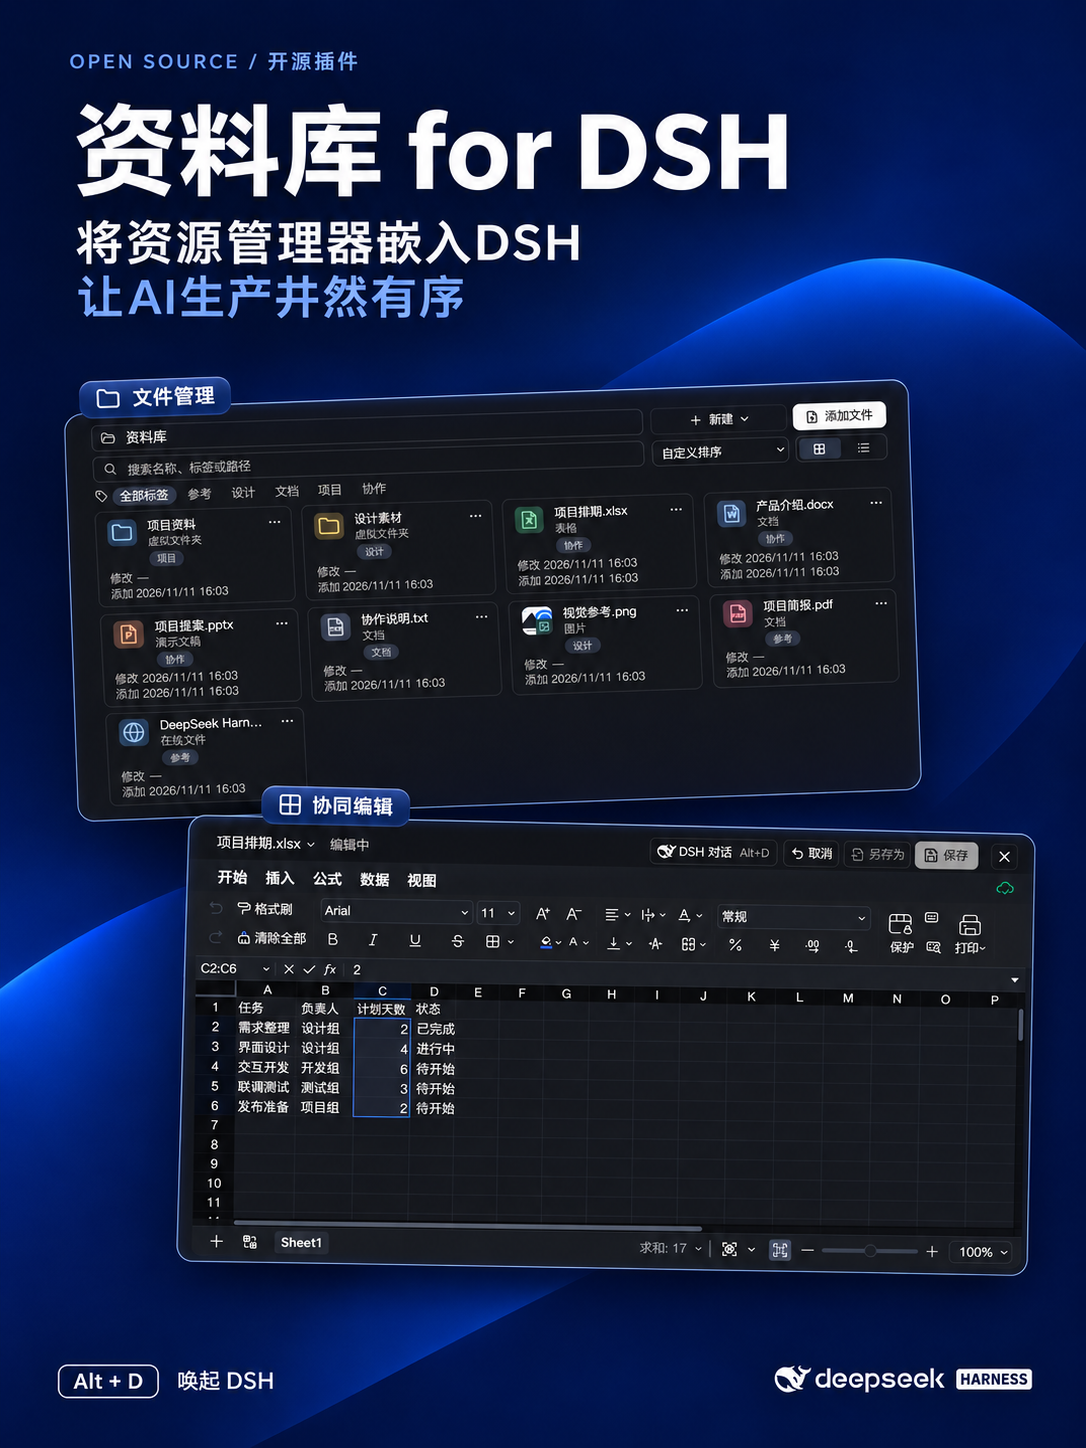
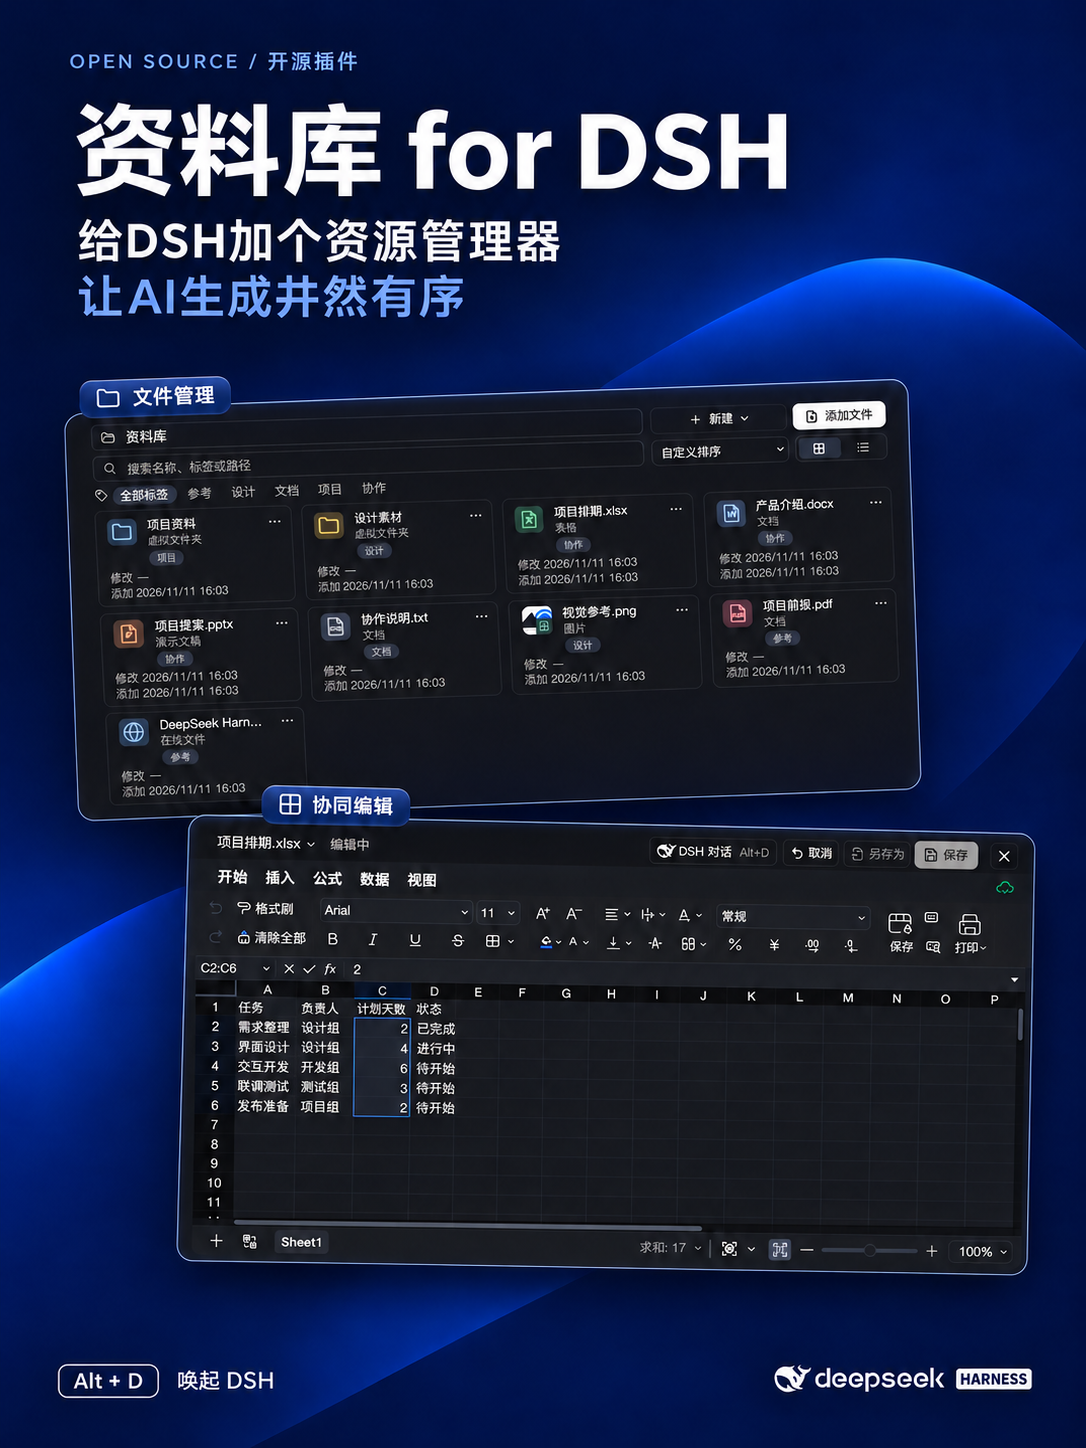
docs: update both cover subtitles

diff --git a/docs/social/README.md b/docs/social/README.md
@@ -13,15 +13,15 @@
 - [Illustrated usage demos / 图文用法演示](../usage-demos.zh-CN.md) · [English](../usage-demos.md).
 - [Preview and editing formats / 预览与编辑格式](../formats.zh-CN.md) · [English](../formats.md).
 
-The r3 kit adds full DSH interface screenshots showing selected library files alongside a native conversation reference and an example request. Both views were captured from local DSH Web using purpose-made files and an unsent composer draft.
+The r4 kit updates both cover subtitles to **给DSH加个资源管理器 让AI生成井然有序** — “Give DSH a file explorer. Keep AI-generated work organized.” It also includes the full DSH interface screenshots showing selected library files alongside a native conversation reference and an example request. Both interface views were captured from local DSH Web using purpose-made files and an unsent composer draft.
 
-r3 素材包新增 DSH 完整界面展示图：右侧资料库选中文件，左侧原生输入框显示引用和示例问题；提供列表与卡片两种版本。两张均为本机 DSH Web 实拍，使用演示资料，未发送输入草稿。
+r4 素材包将横、竖封面的副标题统一更新为「给DSH加个资源管理器 让AI生成井然有序」。同时包含 DSH 完整界面展示图：右侧资料库选中文件，左侧原生输入框显示引用和示例问题；提供列表与卡片两种版本。两张均为本机 DSH Web 实拍，使用演示资料，未发送输入草稿。
 
-Download the latest [moki-library-media-kit-v0.1.58-r3.zip](https://github.com/JKZeng-cell/moki-library-for-dsh/releases/download/v0.1.58/moki-library-media-kit-v0.1.58-r3.zip). Earlier media archives remain available in the [release](https://github.com/JKZeng-cell/moki-library-for-dsh/releases/tag/v0.1.58).
+Download the latest [moki-library-media-kit-v0.1.58-r4.zip](https://github.com/JKZeng-cell/moki-library-for-dsh/releases/download/v0.1.58/moki-library-media-kit-v0.1.58-r4.zip). Earlier media archives remain available in the [release](https://github.com/JKZeng-cell/moki-library-for-dsh/releases/tag/v0.1.58).
 
-Cover revision r2 uses the title **资料库 for DSH** and subtitle **将资源管理器嵌入DSH 让AI生产井然有序**, with slightly tilted, layered windows giving file management and editing comparable visual weight. A smaller monochrome DSH mark sits in the footer. These covers are included in the r3 kit.
+Cover revision r4 uses the title **资料库 for DSH** and subtitle **给DSH加个资源管理器 让AI生成井然有序**, with slightly tilted, layered windows giving file management and editing comparable visual weight. A smaller monochrome DSH mark sits in the footer.
 
-封面 r2 使用「资料库 for DSH」标题和「将资源管理器嵌入DSH 让AI生产井然有序」小标题，文件管理与编辑界面以接近的视觉分量倾斜叠放，DSH 标志缩小并融入页脚。新版素材包包含扩展的中英文介绍、逐步演示和格式支持表。
+封面 r4 使用「资料库 for DSH」标题和「给DSH加个资源管理器 让AI生成井然有序」副标题，文件管理与编辑界面以接近的视觉分量倾斜叠放，DSH 标志缩小并融入页脚。素材包包含完整的中英文介绍、逐步演示和格式支持表。
 
 Raw screenshots and feature demonstrations use purpose-made sample data. Covers are promotional compositions edited from these references; use the raw screenshots and step-by-step guides when inspecting actual UI behavior. The supplied official DeepSeek Harness mark identifies the host application and is not a claim of endorsement. Do not replace demo assets with personal library screenshots when sharing.
 

diff --git a/README.md b/README.md
@@ -4,7 +4,7 @@ English · [简体中文](README.zh-CN.md)
 
 ![MOKI Library — file management, rich previews and AI editing in DeepSeek Harness](docs/media/cover.png)
 
-**Bring file management into DSH. Keep AI production organized.**
+**Give DSH a file explorer. Keep AI-generated work organized.**
 
 MOKI Library is a community plugin for **DeepSeek Harness (DSH)**. It brings a local file library, multi-format previews and Office editing into the same workspace as your DSH conversations.
 

diff --git a/README.zh-CN.md b/README.zh-CN.md
@@ -4,7 +4,7 @@
 
 ![MOKI资料库：文件管理、多格式预览与AI协同编辑](docs/media/cover.png)
 
-**将资源管理器嵌入DSH 让AI生产井然有序**
+**给DSH加个资源管理器 让AI生成井然有序**
 
 MOKI 资料库是为 **DeepSeek Harness（DSH）** 开发的社区插件。管理本地文件、文件夹和链接，预览多种格式，选中内容后直接与 DSH 对话协作。
 
